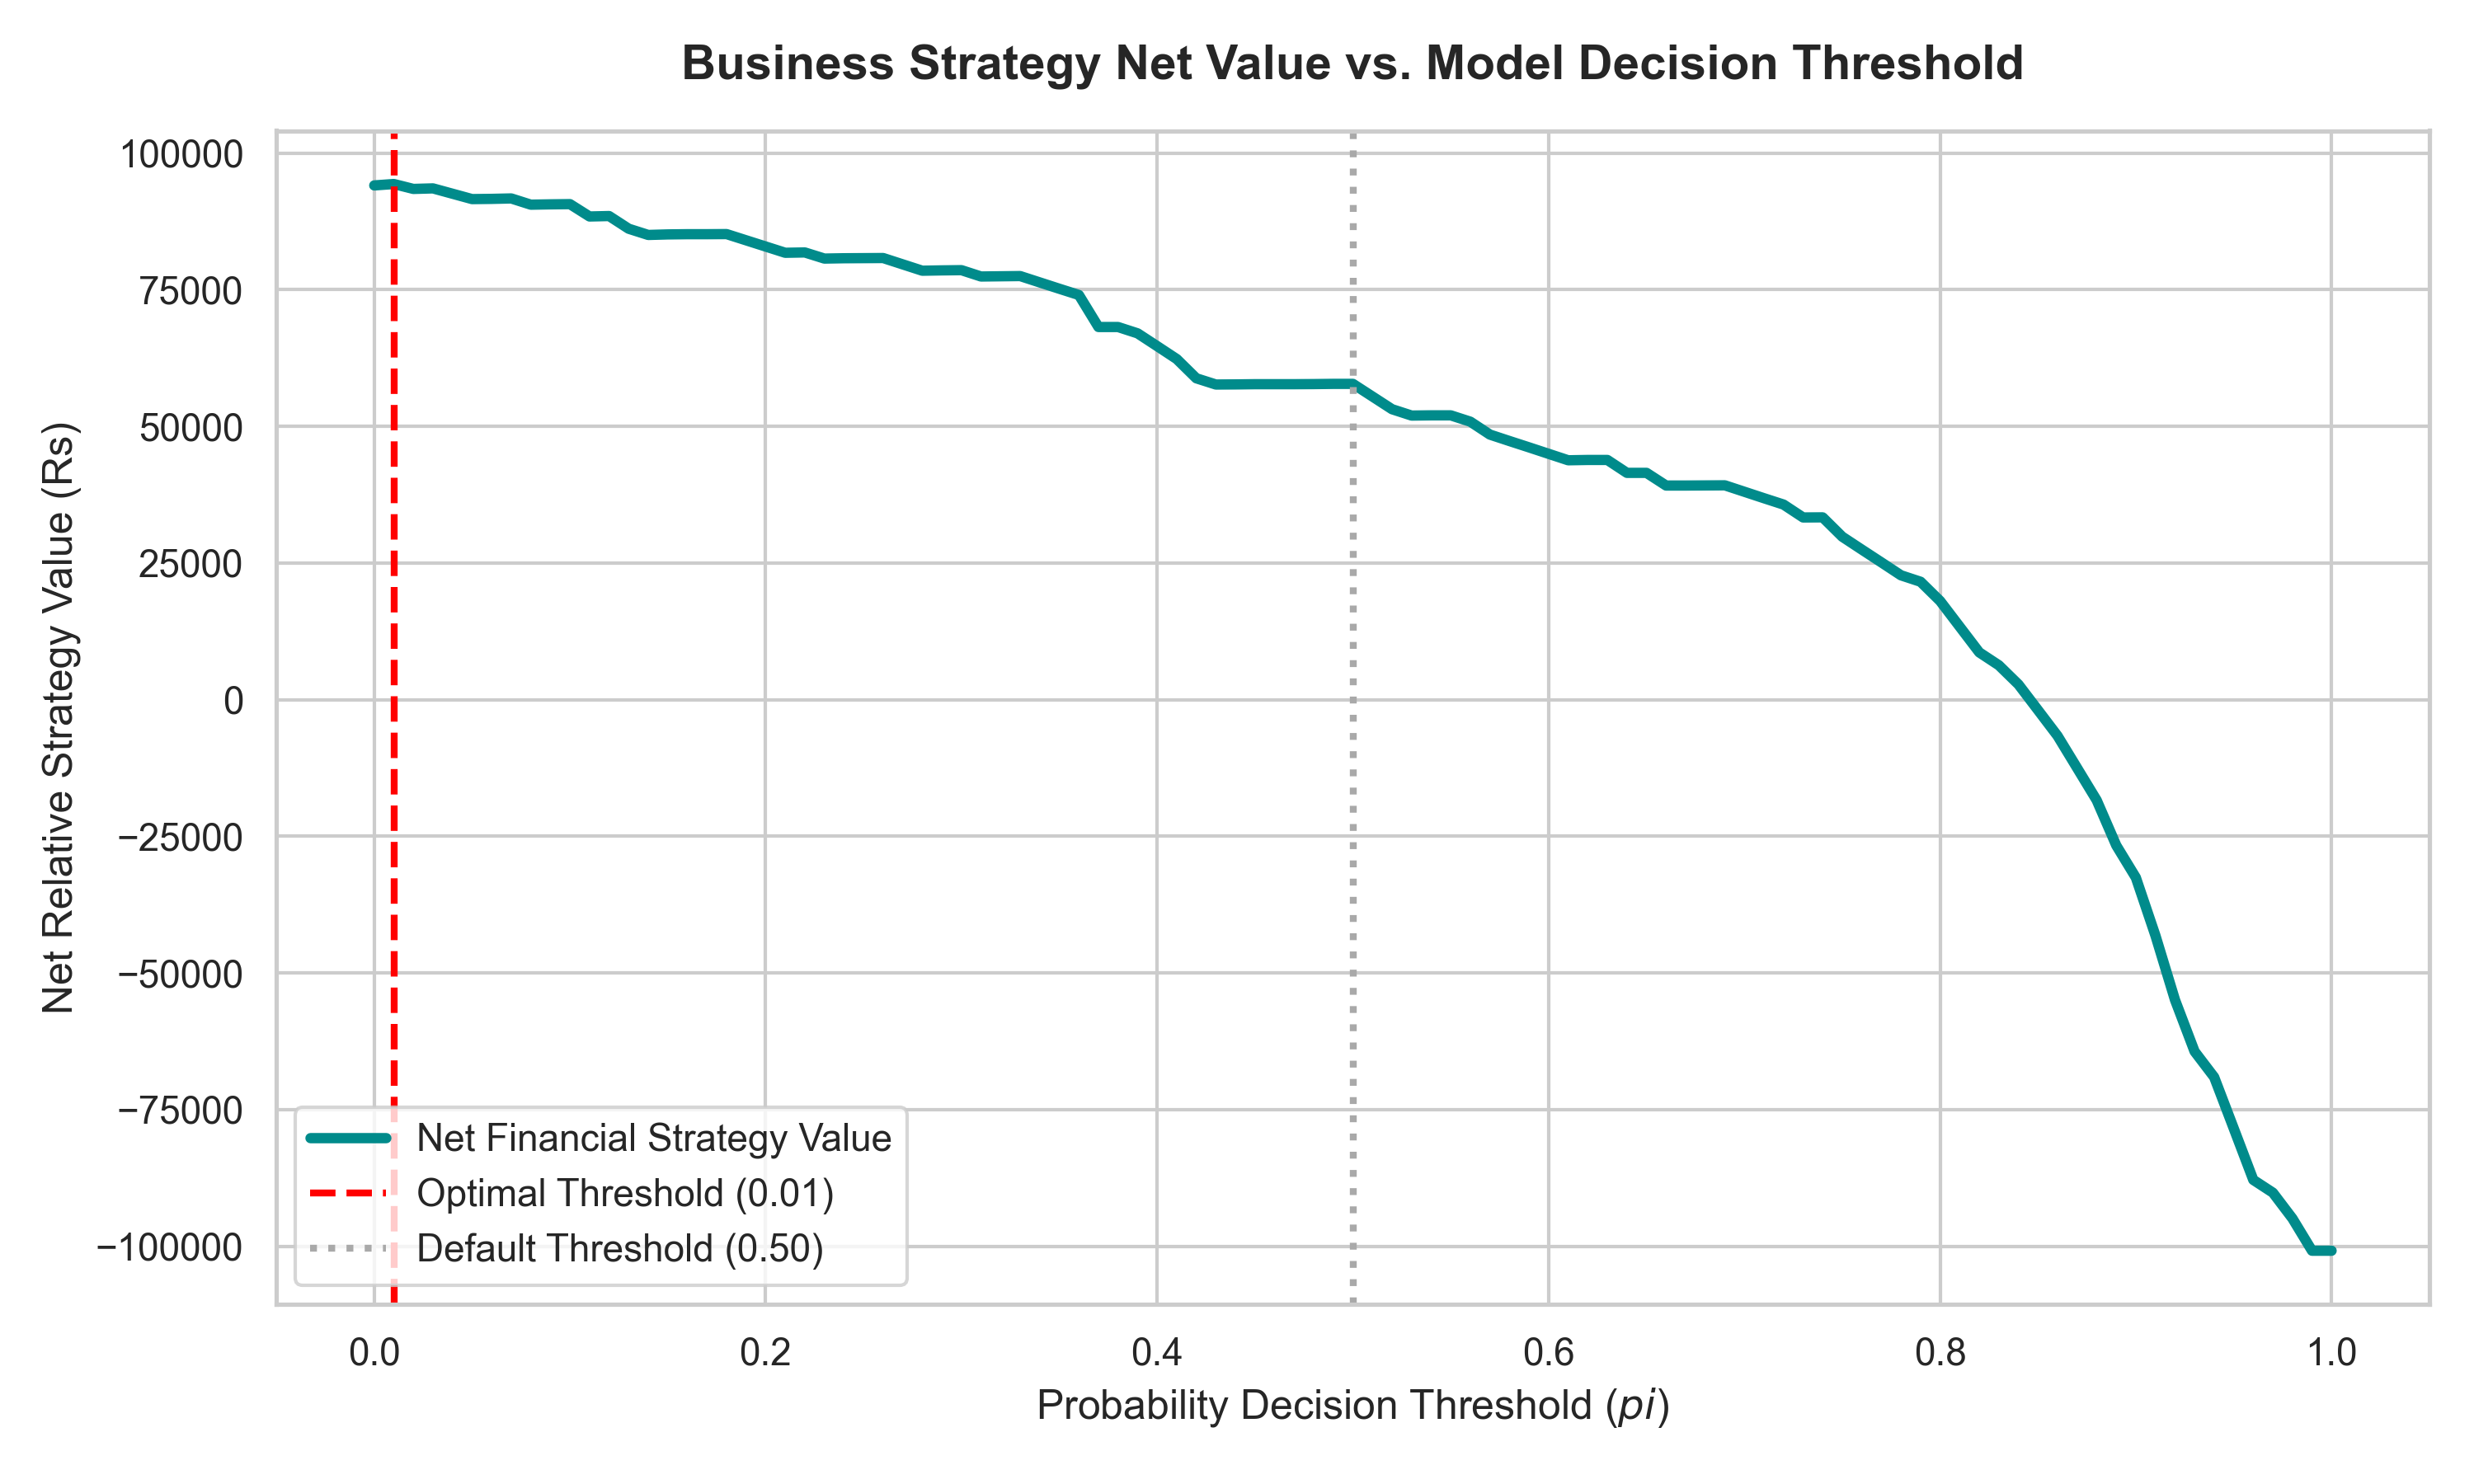
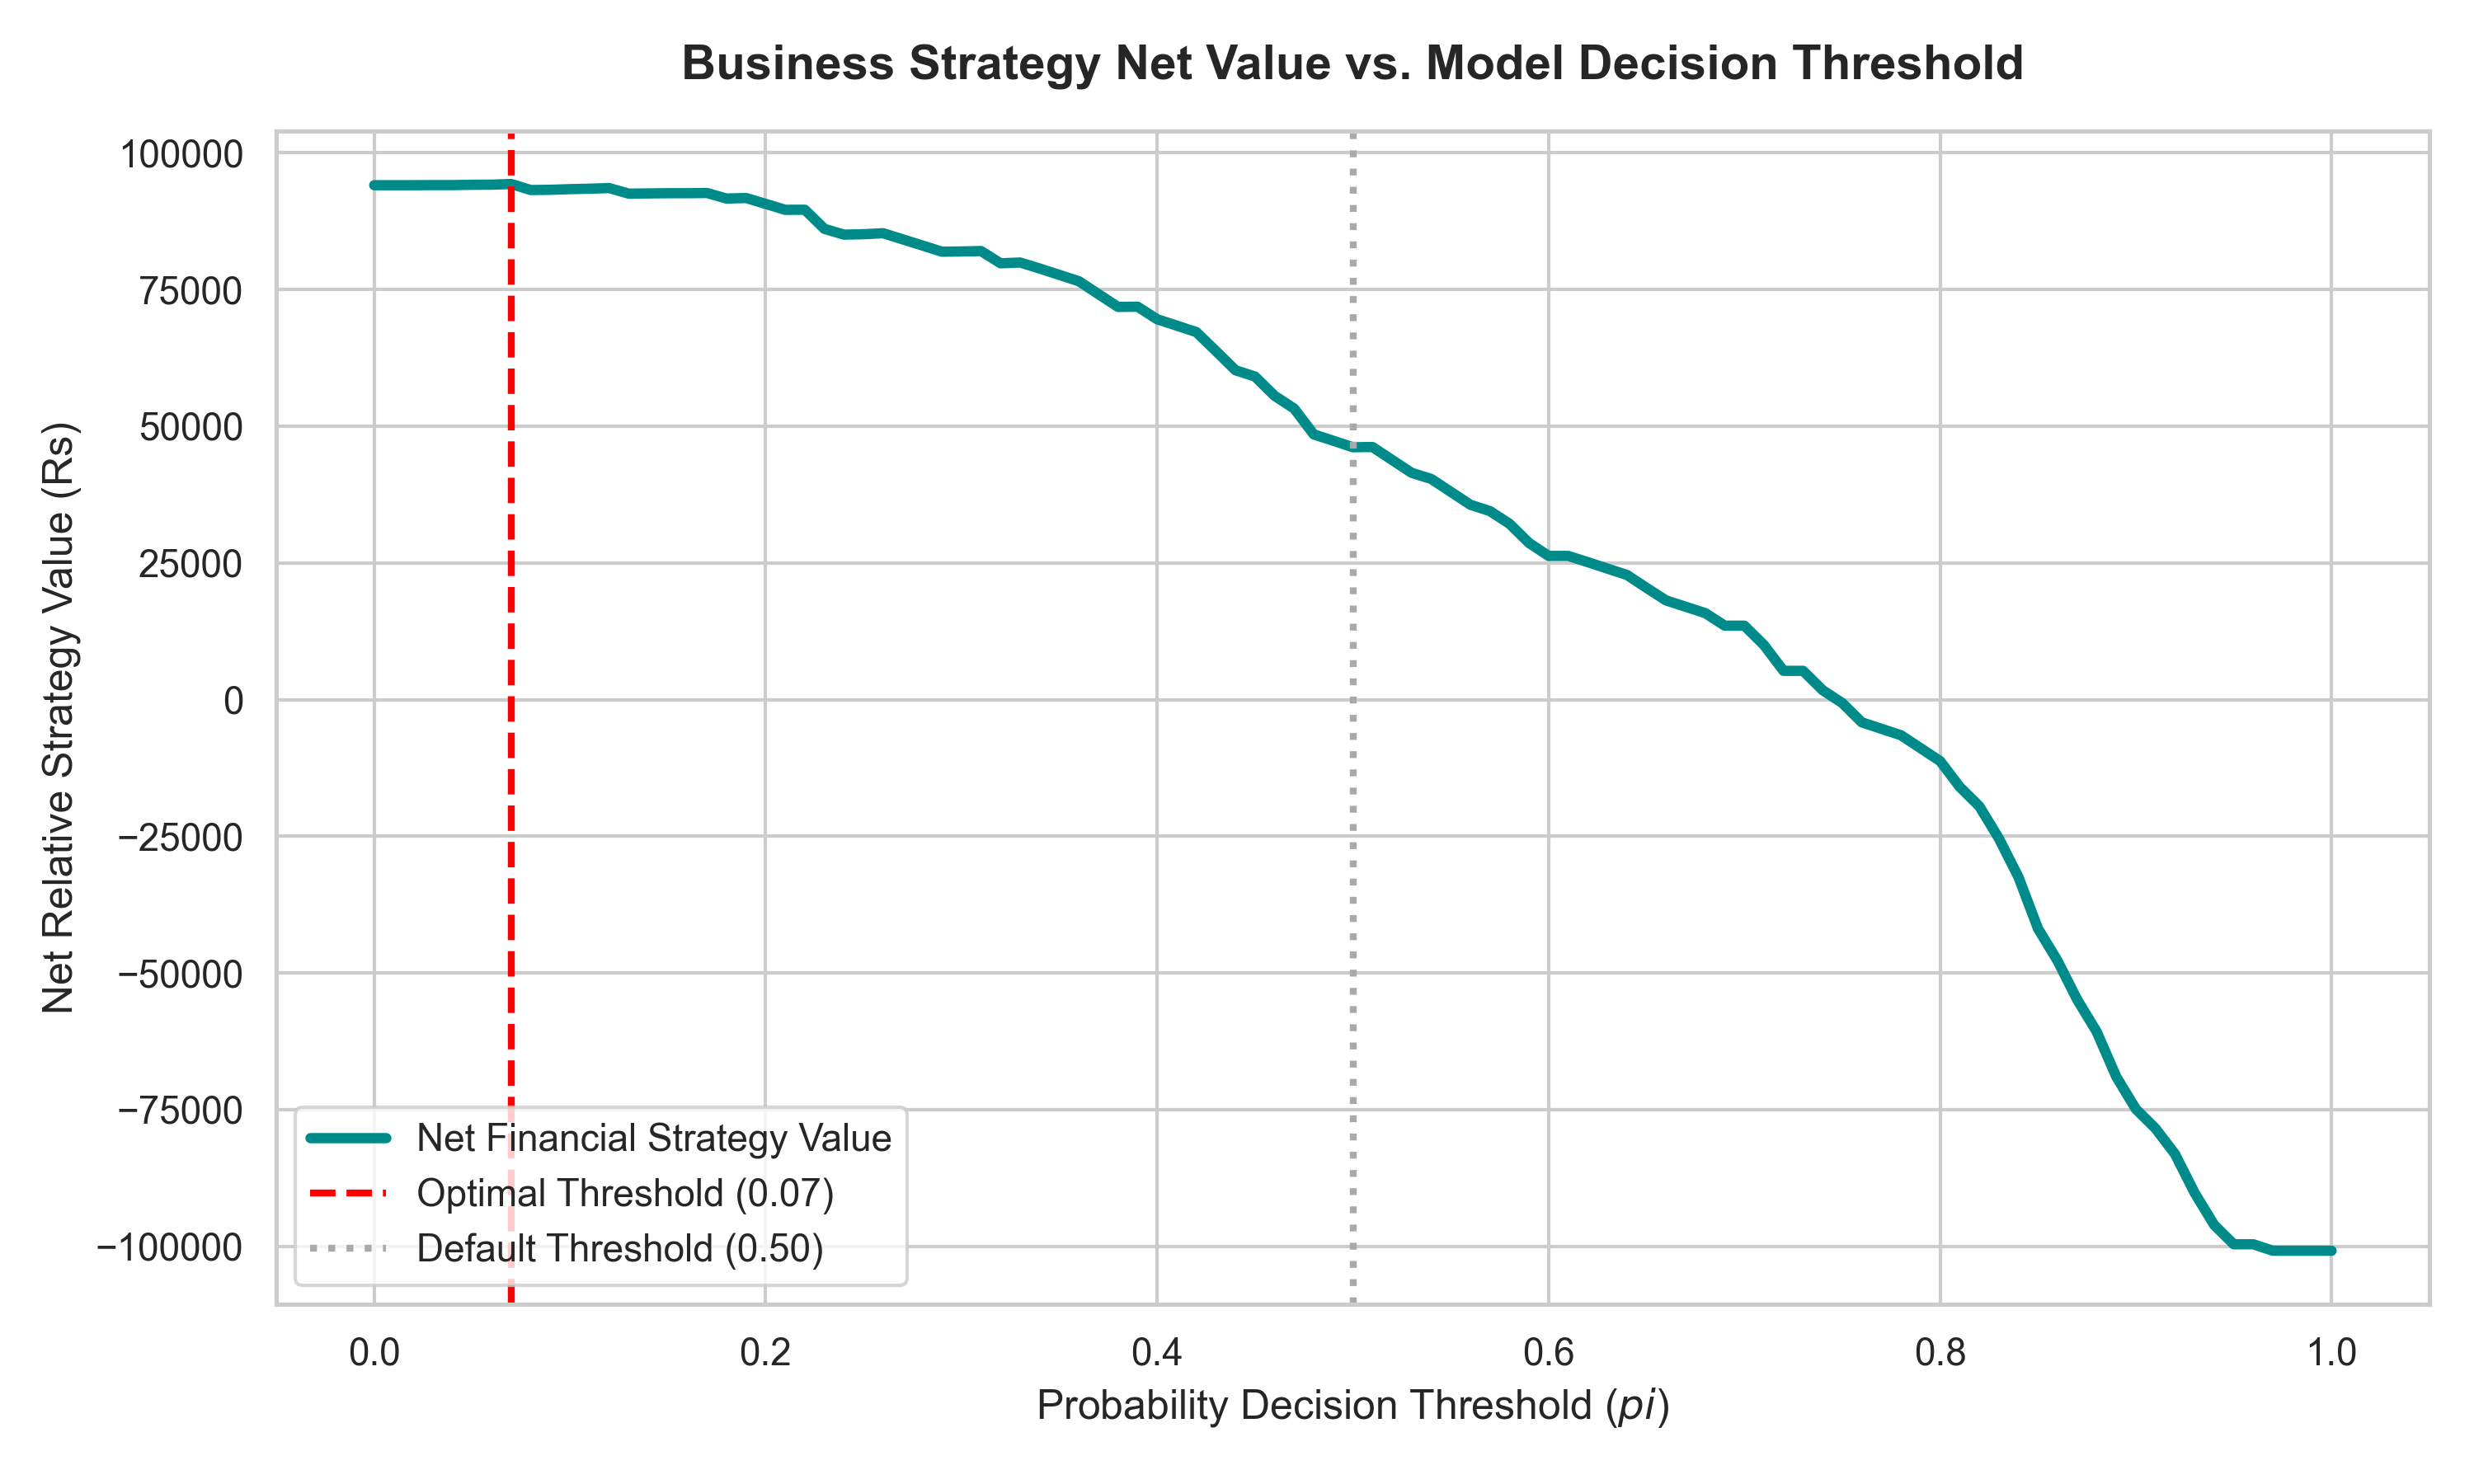
Updates

diff --git a/error_analysis.md b/error_analysis.md
@@ -1,0 +1,61 @@
+
+
+By examining **False Positives (FPs)** - where budget was wasted by flagging loyal customers - and **False Negatives (FNs)** - where critical churners were missed, systemic model blind spots can be identified.
+
+
+
+The analysis below uses a **0.35 probability threshold**, which prioritizes capturing churners (Recall) over perfect precision.
+
+### 1. False Positive Analysis (Model Predicted Churn, User Stayed)
+
+These users were flagged as "at-risk" but remained active. These errors represent **"wasted" retention incentives**, though they often act as successful surprise-and-delight brand touchpoints.
+
+| **Customer ID** | **Pred. Prob** | **Recency** | **Freq (180d)** | **Sessions (30d)** | **Analysis**                                                                 |
+| --------------- | -------------- | ----------- | --------------- | ------------------ | ---------------------------------------------------------------------------- |
+| **CUST00007**   | $0.41$         | $3$ days    | $1$             | $11$               | High recent activity ($11$ sessions) masked by low historical frequency.     |
+| **CUST00008**   | $0.43$         | $47$ days   | $3$             | $2$                | Just crossed the $45$-day recency threshold, triggering a false alarm.       |
+| **CUST00017**   | $0.38$         | $286$ days  | $0$             | $4$                | Historically dormant user; model is sensitive to their sudden $4$ re-visits. |
+| **CUST00018**   | $0.52$         | $111$ days  | $1$             | $3$                | Low engagement history skewed the model toward a high-risk prediction.       |
+| **CUST00038**   | $0.51$         | $51$ days   | $3$             | $5$                | Frequent buyer who simply had a slightly longer inter-purchase interval.     |
+
+**Common Root Cause:** The model is highly sensitive to **Recency thresholds** (specifically crossing the $45$-day mark). Many FPs are high-frequency, loyal users who simply experienced a natural "breather" in their purchase cycle but remained digitally engaged.
+
+
+
+### 2. False Negative Analysis (Model Predicted Stay, User Churned)
+
+These users were classified as "secure," yet they left the platform. These errors represent **lost lifetime value (LTV)** and missed revenue opportunities.
+
+| **Customer ID** | **Pred. Prob** | **Recency** | **Freq (180d)** | **Sessions (30d)** | **Analysis**                                                                   |
+| --------------- | -------------- | ----------- | --------------- | ------------------ | ------------------------------------------------------------------------------ |
+| **CUST00033**   | $0.07$         | $12$ days   | $3$             | $7$                | **"The Sudden Defector"**: Extremely high engagement until abrupt exit.        |
+| **CUST00037**   | $0.34$         | $102$ days  | $1$             | $5$                | Just missed the $0.35$ threshold; marginal error in probability calibration.   |
+| **CUST00079**   | $0.25$         | $191$ days  | $0$             | $2$                | Low-value, long-term dormant; model failed to detect intent to finalize churn. |
+| **CUST00087**   | $0.30$         | $44$ days   | $1$             | $1$                | Almost exactly at the threshold; failed to account for lack of intent.         |
+| **CUST00117**   | $0.32$         | $123$ days  | $2$             | $2$                | Stagnant buyer with no recent digital recovery signals.                        |
+
+**Common Root Cause:** The model struggles with **"Sudden Defectors"** (e.g., `CUST00033`), who exhibit high engagement right up until a catastrophic event—such as a bad product reaction or a failed delivery—causes them to exit permanently.
+
+
+
+### 3. Recommendations for Model Refinement
+
+Based on this analysis, we recommend the following three adjustments to the production pipeline:
+
+- **Introduce "Velocity" Features:** The model currently uses static snapshots (e.g., sessions in last $30$ days). We must introduce **$\Delta$ (delta) features**—such as the change in session count week-over-week—to catch "Sudden Defectors" whose engagement is trending downward rapidly, even if the absolute value is still high.
+
+- **Segment-Specific Thresholds:** Instead of a global $0.35$ threshold, implement **tiered probability cutoffs**. For high-frequency "Champions" (like `CUST00033`), lower the intervention threshold to $0.20$ to ensure even small dips in behavior trigger a "check-in" interaction.
+
+- **Integrate Sentiment Features:** False Negatives like `CUST00033` are often driven by unresolved negative experiences. We must weight `avg_resolution_hours_90d` and `negative_ticket_rate` more heavily in the XGBoost gain criteria to override positive historical transactional patterns.
+
+
+
+### **Summary of Error Impact:**
+
+> The model is excellent at identifying "low-hanging fruit" (habitual users with slipping engagement) but is "blind" to high-value users who experience a single, decisive negative shock. 
+> 
+> By adding velocity-based features and lowering thresholds for most valuable segments, we can catch these high-impact False Negatives without significantly increasing our False Positive budget waste.
+
+
+
+